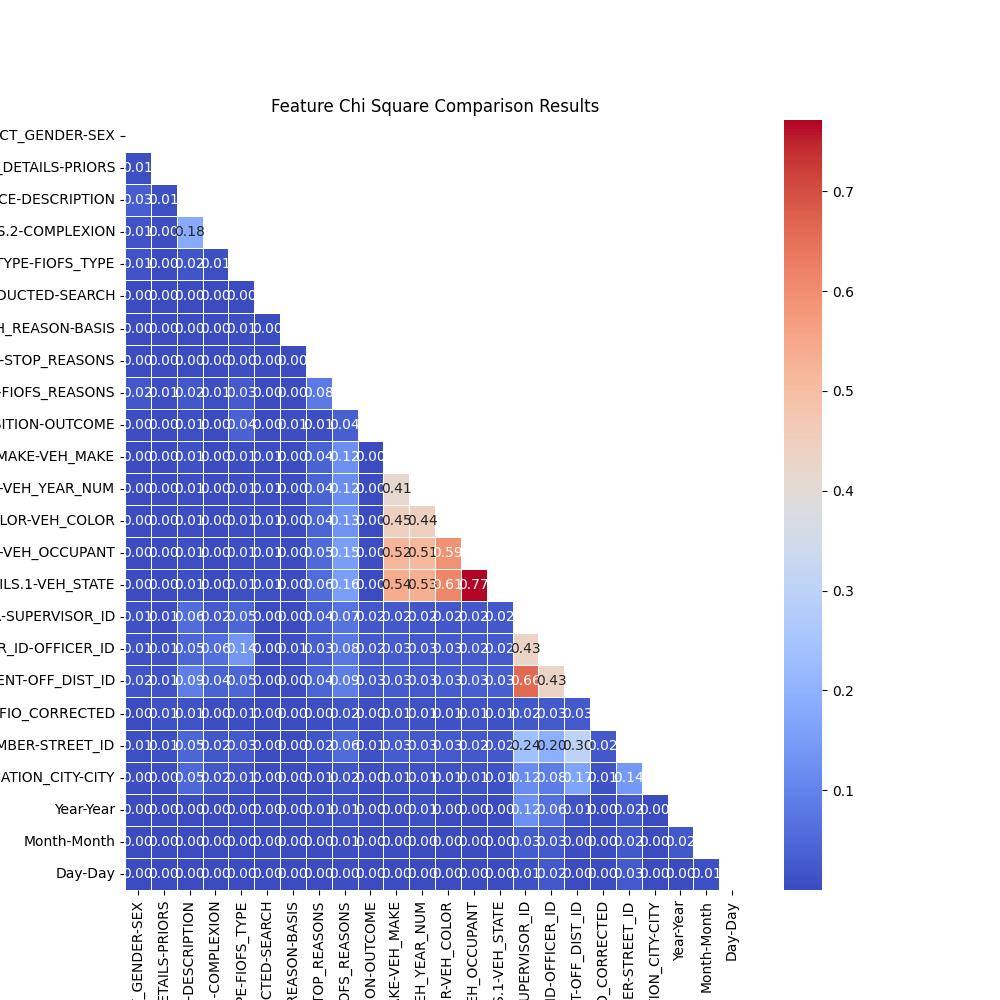
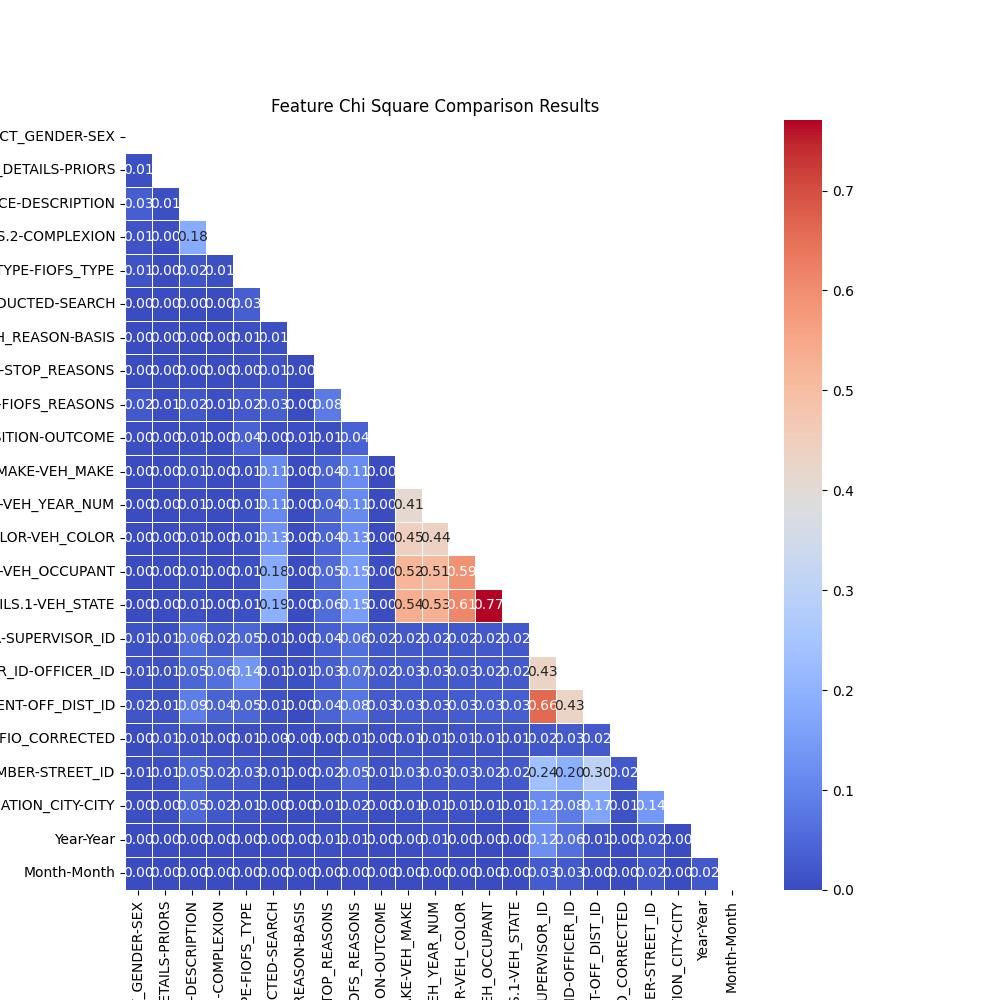
Minor changes.

Changed region(s): [[0.0, 0.124, 0.744, 1.0]]

diff --git a/dept_11_analysis/feature_selection.py b/dept_11_analysis/feature_selection.py
@@ -5,16 +5,27 @@ import matplotlib.pyplot as plt
 from sklearn.metrics import adjusted_mutual_info_score
 
 def feature_selection(df: pd.DataFrame, run_all: bool =True):
+    print("")
+    print("*****************************")
+    print("Input for Feature Selection")
+    print("*****************************")
+    print("")
+    df.info()
+    
     split_date_and_time(df=df, feature=("INCIDENT_DATE", "FIO_DATE"))
-    
-    
-    
-    
+ 
     
     if run_all:
         comparison_results = feature_comparison(df=df)
         plot_comparison_results(df=comparison_results)
     else: comparison_results = None
+    
+    print("")
+    print("*****************************")
+    print("Output for Feature Selection")
+    print("*****************************")
+    print("")
+    df.info()
     return comparison_results
     
 
@@ -46,18 +57,23 @@ def mutual_info_comparison(df: pd.DataFrame, feature_1: str, feature_2: str) -> 
     mutual_info_value = adjusted_mutual_info_score(feature_1_values, feature_2_values)
     # print(mutual_info_value)
     return mutual_info_value
+
     
 def plot_comparison_results(df: pd.DataFrame):
     plt.figure(figsize=(10, 10))
     sns.heatmap(df.astype(float), cmap="coolwarm", annot=True, fmt=".2f", linewidths=0.5)
-    plt.title("Feature Chi Square Comparison Results")
+    plt.title("Feature Mutual Information Comparison Results")
     plt.xlabel("Features")
     plt.ylabel("Features")
     plt.savefig("dept_11_analysis/comparison_heatmap.jpg")
+
 
 def split_date_and_time(df: pd.DataFrame, feature: str):
     df[("Year", "Year")] = df[feature].dt.year
     df[("Month", "Month")] = df[feature].dt.month
     # df[("Day", "Day")] = df[feature].dt.day
     df.drop(columns=[feature], inplace=True)
-    
+
+
+def variance_of_feature(df: pd.DataFrame, feature_name: str) -> float:
+    return df[feature_name].var()

diff --git a/dept_11_analysis_main.py b/dept_11_analysis_main.py
@@ -19,7 +19,7 @@ def save_df_to_csv(df: pd.DataFrame, output_filename: str):
 
 
 def dept_11_analysis_main():
-    show_results = True
+    show_results = False
     threshold_to_drop = 30
     
     path = "raw_data/Dept_11-00091/11-00091_Field-Interviews_2011-2015.csv"    
@@ -103,8 +103,8 @@ def dept_11_analysis_main():
 
     # region - Feature Selection
     print("Start Feature Selection")
-    comparison_results = feature_selection(df=df, run_all=False)
-    if comparison_results:
+    comparison_results = feature_selection(df=df, run_all=True)
+    if not comparison_results.empty:
         save_df_to_csv(df=comparison_results, output_filename="comparison_results.csv")
     if show_results:
         print("")
@@ -132,8 +132,7 @@ def dept_11_analysis_main():
     # endregion
     
     # region - Clustering
-    df.info()
-    
+    ''' 
     
     print("Start Clustering")
     if show_results:
@@ -148,10 +147,10 @@ def dept_11_analysis_main():
 
     
     print("End Clustering")
+    '''
     # endregion
     
     save_df_to_csv(df=df, output_filename="prepared_dataframe.csv")
-    # df.info()
     
 if __name__ == "__main__":
     dept_11_analysis_main()

diff --git a/DEPT_11_POLICING_REPORT_ANALYSIS.md b/DEPT_11_POLICING_REPORT_ANALYSIS.md
@@ -386,8 +386,9 @@ All MBIs are followed by SPI to fill the remaining missing data.
 
 ## Feature Selection
 
+The current data contains more than 5,500 unique values, mainly categorical data. Using a clustering algorithm that uses distance metrics would require one hot encoding. This leads to a very complex dataframe.
+To reduce the complexity of this, the following table shows which actions will be done.
 
-Grouping of features:
 
 | Column Name                               | Number of Unique Values | Grouping            | Exp. Eff. |
 |-------------------------------------------|-------------------------|---------------------|-----------|
@@ -416,6 +417,8 @@ Grouping of features:
 | ('Year', 'Year')                          | 5                       | n/a                 |           |
 | ('Month', 'Month')                        | 12                      | n/a                 |           |
 
+
+<<COMMENT>>: If this should not be sufficient, then different clusters based on the grouping in chapter clustering will be conducted to create representatives.
 
 ## Base Statistics
 
@@ -463,3 +466,9 @@ Grouping of features:
 
 
     
+
+
+    For feature selection in preparation for an unsupervised clustering, which would be good metrics for categorical data?
+I currently have a lot of categorical features, some with a lot of unique values, up to 3000 (well compared to the total amount of data points, 150000, still low). When I would one hot encode everything, then it would end up in 5640 columns. Which would be a way to much for my computer to handle.
+So I am trying to find metrics, which features I can drop.
+I did a Chi2 test, and it did not work out. Using the mutual information on each pair of the feautres, did not yield information that would lead to a drop of features. I created a correlation matrix, using the mutual value as correlation value.
